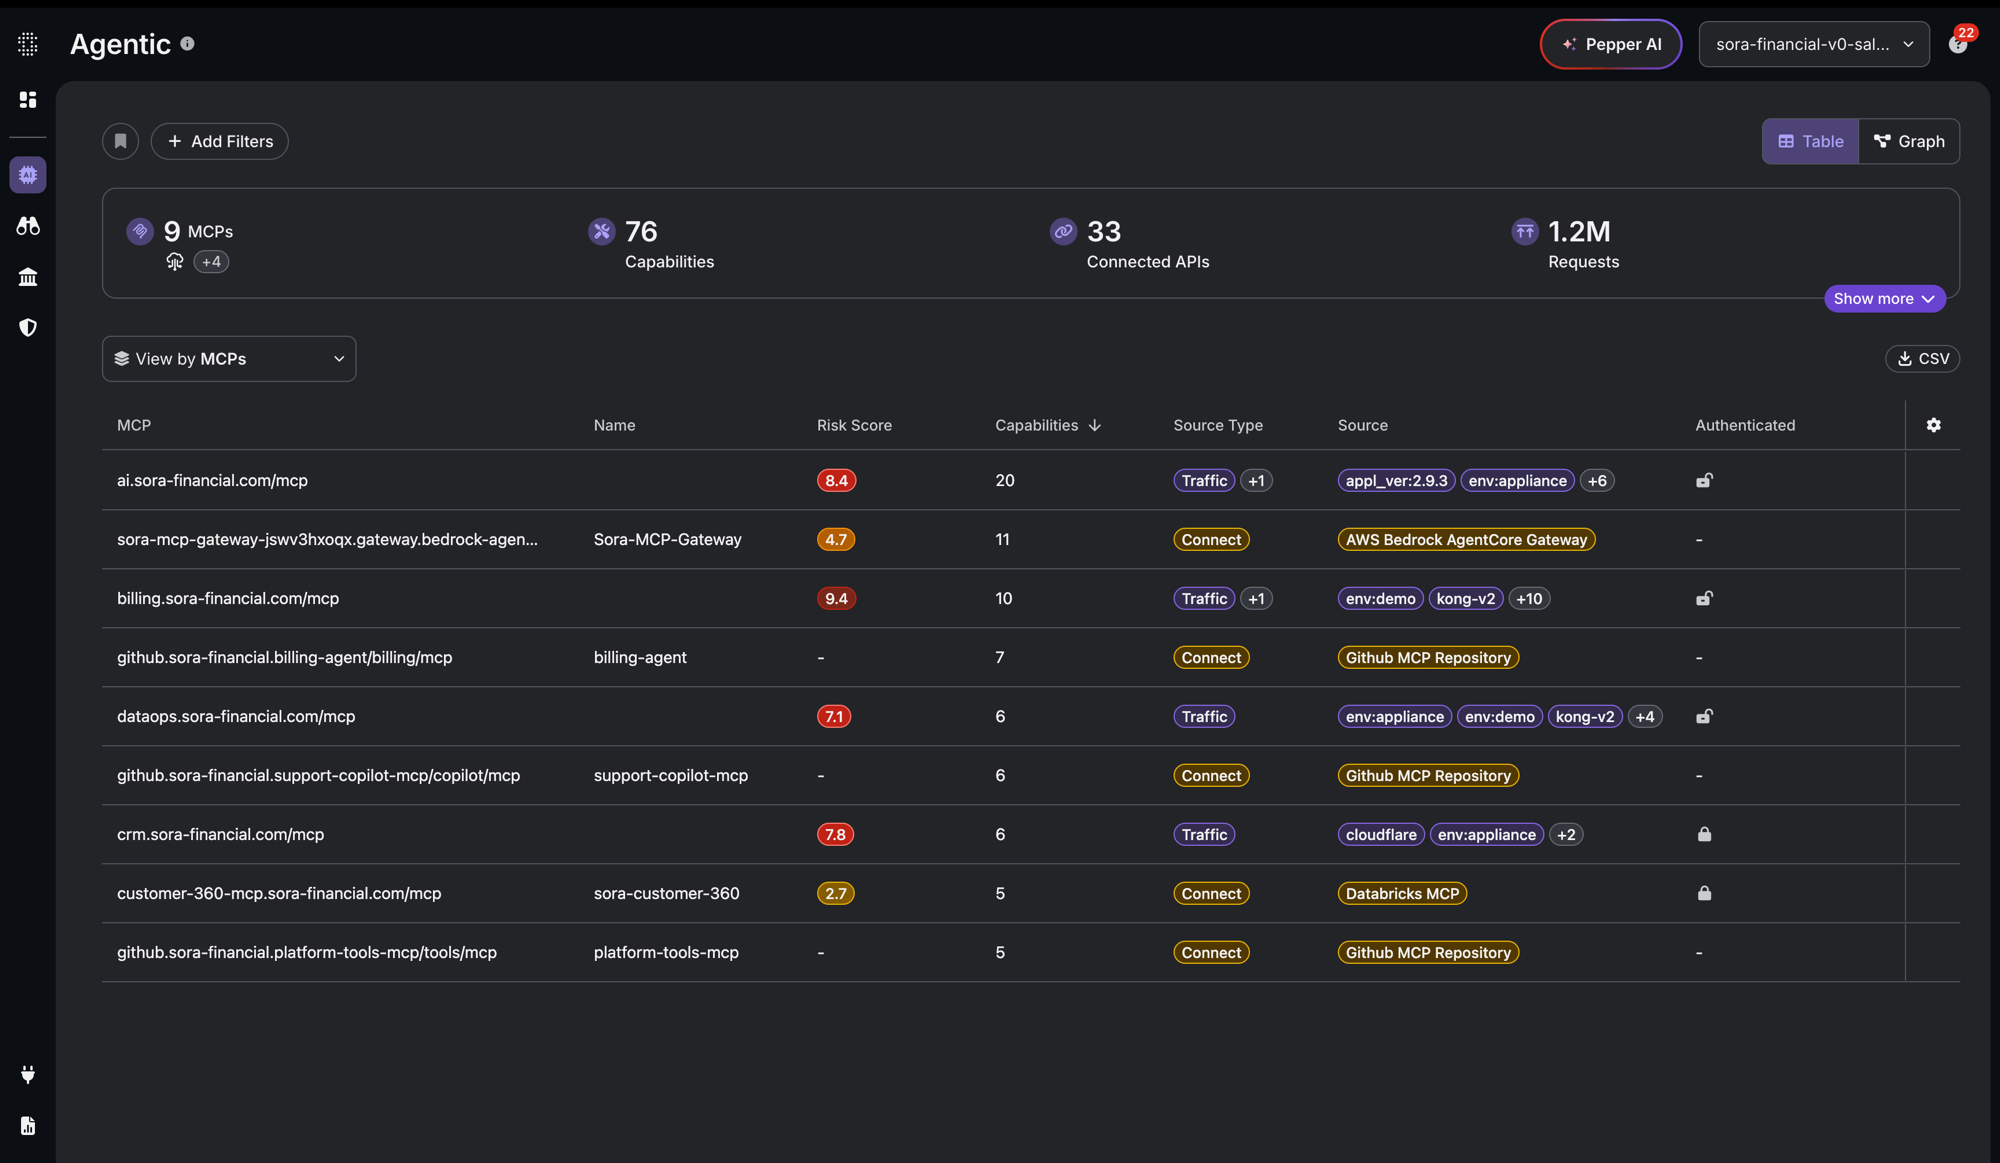
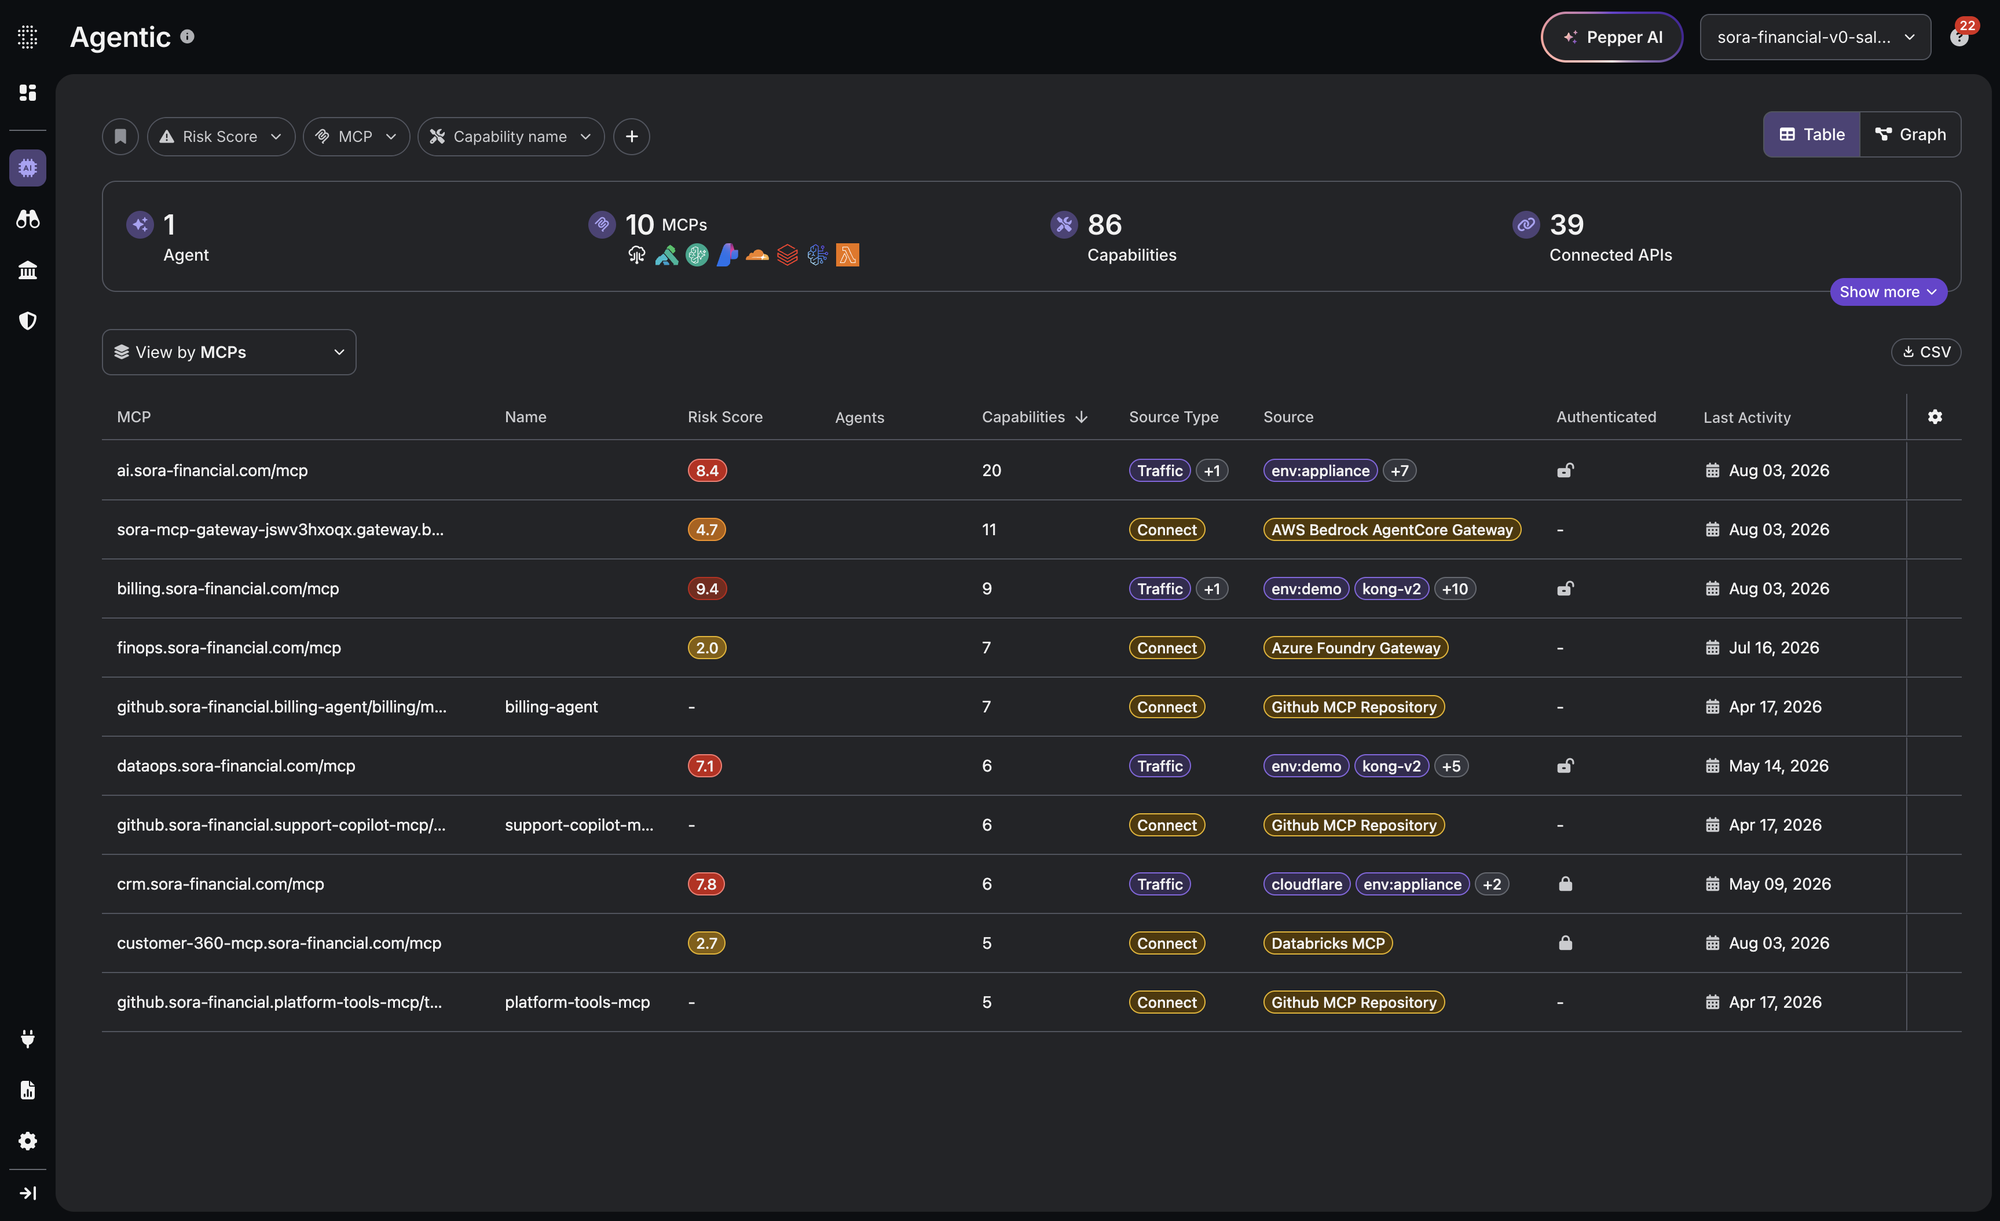
Scenarios 1 & 3: refresh for the Aug 2026 environment + drop em dashes
Scenario 1 now teaches the three discovery paths (Traffic, Connect, Surface)
and the five-column agent-first graph. Step 01 drops the dead "live request
volume" claim; step 02 replaces "four linked columns" with the Agents ->
MCPs & Toolkit -> Technologies -> Applications -> Capabilities read, opening
on the AWS Bedrock AgentCore-sourced agent. Screenshots re-captured for the
inventory, graph, and capabilities table.

Scenario 3 step 01 rebuilt around the current Protect console (175 detected
attackers, VPN/proxy-scored IPs, the triage worklist with named x-user-id
identities). Step 02 splits into three parts: the Pepper AI attack summary,
the risk-type breakdown with most-attacked APIs and server responses, and
the existing Sources copy, each with its own capture.

Em dashes replaced with commas or semicolons across all three scenario pages
and the challenge help stepper, per house style. Trans fallback children in
the page components kept byte-identical to the locale JSON so an offline
render never shows stale copy. pt-BR mirrors every change; key parity holds.

diff --git a/client/src/pages/Scenario3.tsx b/client/src/pages/Scenario3.tsx
@@ -155,7 +155,7 @@ export default function Scenario3() {
         <StepSection stepNumber="01" title={t("step01.title")} id="step-01">
           <p style={bodyParagraphStyle}>
             <Trans i18nKey="step01.body1" t={t} components={{ l1: <a href="#" className="accent-link" /> }}>
-              Open the Protect tab to see every adversary your environment has detected, ranked. <l1>61 active attackers</l1> right now, 2 critical, 16 high, 44 medium. The most common risk types — Parameter Tampering (61), Security Misconfiguration (41), Broken User Auth (14), MCP (13), Injection (7), are exactly the techniques agentic systems get hit with first. Highest-risk IPs and most-attacked APIs are pinned on the right.
+              Open the Protect tab to see every adversary your environment has detected, ranked. <l1>175 detected attackers</l1> right now, 7 critical, 103 high, 64 medium, 1 low. The most common risk types, Security Misconfiguration (175), Parameter Tampering (171), MCP (70), Excessive Data Exposure (68), are exactly the techniques agentic systems get hit with first. Highest-risk IPs, scored and flagged for VPN or proxy use, are pinned on the right.
             </Trans>
           </p>
           <ZoomableImage
@@ -181,9 +181,13 @@ export default function Scenario3() {
             <Trans
               i18nKey="step02.body1"
               t={t}
-              components={{ l1: <a href="#" className="accent-link" />, l2: <a href="#" className="accent-link" /> }}
+              components={{
+                l1: <a href="#" className="accent-link" />,
+                l2: <a href="#" className="accent-link" />,
+                l3: <a href="#" className="accent-link" />,
+              }}
             >
-              Click any row to open the attacker profile. This one — <l1>HASHED:b50549…</l1> , is critical with 71 attempts in two minutes against <l2>billing.sora-financial.com</l2>. Salt rolls every observed risk type up by count: Security Misconfig 67, Parameter Tampering 66, Rate Limiting 15, Broken User Auth 7, Injection / MCP / LLM 4 each, Mass Assignment 3. The MCP block shows "MCP Server is Exposed (4)" and "Attempt to Find Exposed MCP Server (2)". The LLM block shows 4 prompt injections. One adversary, the full TTP map.
+              Click any row to open the attacker profile. This one, <l1>HASHED:b50549…</l1>, is Critical at High confidence: 71 attempts against <l2>billing.sora-financial.com</l2>. Before you read a single event, <l3>Pepper AI</l3> has already written the case. The Attack Summary narrates the whole intrusion in plain language: mass assignment and privilege escalation against /mcp/tools/call/stripe.orders.get and /v1/refunds, exception mishandling and server-version exposure, bad authorization and unsecured JWTs, up to 14 accesses per minute on /v1/refunds, then SQL injection, XSS, and code injection across /v1/orders/search, /agent/chat, and the Zendesk endpoints. It even pins the window, three minutes of UTC wall clock, and ends on the line that matters: most responses came back HTTP 200. These attempts landed.
             </Trans>
           </p>
           <ZoomableImage
@@ -201,12 +205,30 @@ export default function Scenario3() {
                 l3: <a href="#" className="accent-link" />,
               }}
             >
-              The <l1>Sources</l1> tab proves it's the same actor wearing different hats. Single IP (10.0.1.197), single x-user-id, but two distinct user-agents — <l2>Sora-BillingAgent/1.0 MCPClient</l2> for 60 of the calls, <l3>python-httpx/0.28.1</l3> for 11. The python-httpx calls are where they stopped going through the agent and started calling the MCPs themselves.
+              Under the summary, Salt rolls every observed risk type up by count, and every count drills into its sub-types. <l1>Security Misconfiguration</l1> 15, server version exposed in a response header 15 and exception mishandling 2. <l2>Parameter Tampering</l2> 10, missing field 6, unexpected unknown parameter 4, invalid enumeration 4. Then Broken User Authentication 7, Injection 6, Large Language Model 4, Mass Assignment 3, MCP 2, Excessive Data Exposure 1. <l3>Most Attacked APIs</l3> ranks the targets, POST /agent/chat took 5 attempts, POST /mcp/tools/call/stripe.orders.get and POST /v1/refunds 3 each, POST /mcp/tools/call/plaid.identity.verify 1. Server Responses is the punchline: of the responses Salt logged here, every one came back 200 OK. Nothing stopped this.
             </Trans>
           </p>
           <ZoomableImage
             src="/steps/scenario3/step02-attacker-profile-b.png"
             alt={t("step02.image2Alt")}
+            style={stepImageStyle}
+          />
+          <p style={bodyParagraphStyle}>
+            <Trans
+              i18nKey="step02.body3"
+              t={t}
+              components={{
+                l1: <a href="#" className="accent-link" />,
+                l2: <a href="#" className="accent-link" />,
+                l3: <a href="#" className="accent-link" />,
+              }}
+            >
+              The <l1>Sources</l1> tab proves it's the same actor wearing different hats. Single IP (10.0.1.197), single x-user-id, but two distinct user-agents, <l2>Sora-BillingAgent/1.0 MCPClient</l2> for 60 of the calls, <l3>python-httpx/0.28.1</l3> for 11. The python-httpx calls are where they stopped going through the agent and started calling the MCPs themselves.
+            </Trans>
+          </p>
+          <ZoomableImage
+            src="/steps/scenario3/step02-attacker-profile-c.png"
+            alt={t("step02.image3Alt")}
             style={stepImageStyle}
           />
         </StepSection>
@@ -309,7 +331,7 @@ export default function Scenario3() {
                 l2: <a href="#" className="accent-link" />,
               }}
             >
-              Then they escalate. They forge a JWT with <s1>alg: none</s1> and <s2>scope: billing:admin billing:refund:unlimited</s2> — classic <l1>CVE-2015-9235</l1>, and throw it at all three endpoints in sequence. Salt flags <l2>Broken User Authentication → Unsecured JWT</l2> plus Parameter Tampering on the bogus alg/scope, every time, within seconds.
+              Then they escalate. They forge a JWT with <s1>alg: none</s1> and <s2>scope: billing:admin billing:refund:unlimited</s2>, classic <l1>CVE-2015-9235</l1>, and throw it at all three endpoints in sequence. Salt flags <l2>Broken User Authentication → Unsecured JWT</l2> plus Parameter Tampering on the bogus alg/scope, every time, within seconds.
             </Trans>
           </p>
           <ZoomableImage

diff --git a/client/src/pages/Scenario1.tsx b/client/src/pages/Scenario1.tsx
@@ -104,7 +104,7 @@ export default function Scenario1() {
 
             <p style={{ ...bodyParagraphStyle, marginBottom: "2rem" }}>
               <Trans i18nKey="overview.p3" t={t} components={{ l1: <a href="#" className="accent-link" /> }}>
-                You can identify <l1>shadow APIs, zombie endpoints, unauthenticated MCP servers, and sensitive data exposure</l1> across your entire agentic landscape, building the foundation for a complete security posture.
+                You can identify <l1>shadow APIs, zombie endpoints, unauthenticated MCP servers, and sensitive data exposure</l1> across your entire agentic landscape, whether Salt saw them in live traffic or pulled them agentlessly from the platforms that host them, building the foundation for a complete security posture.
               </Trans>
             </p>
 
@@ -153,7 +153,7 @@ export default function Scenario1() {
         <StepSection stepNumber="01" title={t("step01.title")} id="step-01">
           <p style={bodyParagraphStyle}>
             <Trans i18nKey="step01.body" t={t} components={{ l1: <a href="#" className="accent-link" /> }}>
-              Start with the high-level view. The Inventory dashboard surfaces how many <l1>MCPs, capabilities, and connected APIs</l1> exist in your environment, plus live request volume. You'll immediately see posture gaps detected across capabilities and capabilities touching sensitive data like PII, emails, addresses, without opening a single API spec.
+              Start with the high-level view. The Inventory dashboard counts the agents, MCPs, capabilities, and connected APIs in your environment, then breaks them down row by row. Salt discovers on three paths, <l1>Traffic, Connect, and Surface</l1>: observed live off the wire; pulled agentlessly from the platforms hosting your agents and MCPs, AWS Bedrock AgentCore, Azure Foundry, GitHub, Databricks; or scanned from the outside, the same way an attacker would find them. Connect surfaces shadow MCPs before they ever serve a request; Surface catches the ones already exposed to the internet. The table lays out discovery source, risk, auth status, and last activity for the whole estate, without opening a single API spec.
             </Trans>
           </p>
           <ZoomableImage src="/steps/scenario1/step01-inventory.png" alt={t("step01.imageAlt")} style={stepImageStyle} />
@@ -165,7 +165,7 @@ export default function Scenario1() {
         <StepSection stepNumber="02" title={t("step02.title")} id="step-02">
           <p style={bodyParagraphStyle}>
             <Trans i18nKey="step02.body" t={t} components={{ l1: <a href="#" className="accent-link" /> }}>
-              Switch to the Graph view to see how everything connects. The graph reads left to right across four linked columns: your MCPs, the Technologies they run on, the third-party Applications they reach, and the Capabilities each one exposes. Hover any node to highlight its connections and preview its risk score, top posture gap, and sensitive data; click to open its full side drawer. Turn on <l1>Insight Layers</l1> to recolor the whole graph by risk score, posture gaps, or sensitive data, so the highest-value targets stand out at a glance. Filters and layer toggles trim the view to what matters, and they persist across both Table and Graph.
+              Switch to the Graph view to see how everything connects. The graph reads left to right across five linked columns: the Agents driving the activity, the MCPs and toolkit they invoke, the Technologies those run on, the third-party Applications they reach, and the Capabilities each one exposes. Start at the agent, discovered straight from AWS Bedrock AgentCore, and everything it can touch lights up downstream. Hover any node to highlight its connections and preview its risk score, top posture gap, and sensitive data; click to open its full side drawer. Turn on <l1>Insight Layers</l1> to recolor the whole graph by risk score, posture gaps, or sensitive data, so the highest-value targets stand out at a glance. Filters and layer toggles trim the view to what matters, and they persist across both Table and Graph.
             </Trans>
           </p>
           <ZoomableImage src="/steps/scenario1/step02-graph.png" alt={t("step02.imageAlt")} style={stepImageStyle} />
@@ -203,7 +203,7 @@ export default function Scenario1() {
         <StepSection stepNumber="04" title={t("step04.title")} id="step-04">
           <p style={bodyParagraphStyle}>
             <Trans i18nKey="step04.body" t={t} components={{ l1: <a href="#" className="accent-link" /> }}>
-              Flatten the graph into a single capabilities table. Every tool across every MCP in one view, sortable by <l1>risk score</l1>. This is where you triage, sort highest-risk to top, filter by source type, and stack-rank remediation work. It's how posture management turns into an actionable backlog.
+              Flatten the graph into a single capabilities table. Every tool across every MCP in one view, sortable by <l1>risk score</l1>. This is where you triage, sort highest-risk to top, filter by source type, traffic-observed or connector-sourced, and stack-rank remediation work. It's how posture management turns into an actionable backlog.
             </Trans>
           </p>
           <ZoomableImage
@@ -283,7 +283,7 @@ export default function Scenario1() {
             </h2>
             <p style={bodyParagraphStyle}>
               <Trans i18nKey="summary.body" t={t} components={{ l1: <a href="#" className="accent-link" /> }}>
-                You walked the discovery progression: inventory count, graph view, MCP drilldown, a flat capabilities backlog, and the per-tool risk surface. You now have end-to-end visibility into every agent, MCP, and API in your environment — the foundation <l1>posture management</l1> will build on in the next scenario.
+                You walked the discovery progression: inventory count, agent-to-capability graph, MCP drilldown, a flat capabilities backlog, and the per-tool risk surface. You now have end-to-end visibility into every agent, MCP, and API in your environment, the foundation <l1>posture management</l1> will build on in the next scenario.
               </Trans>
             </p>
           </div>
